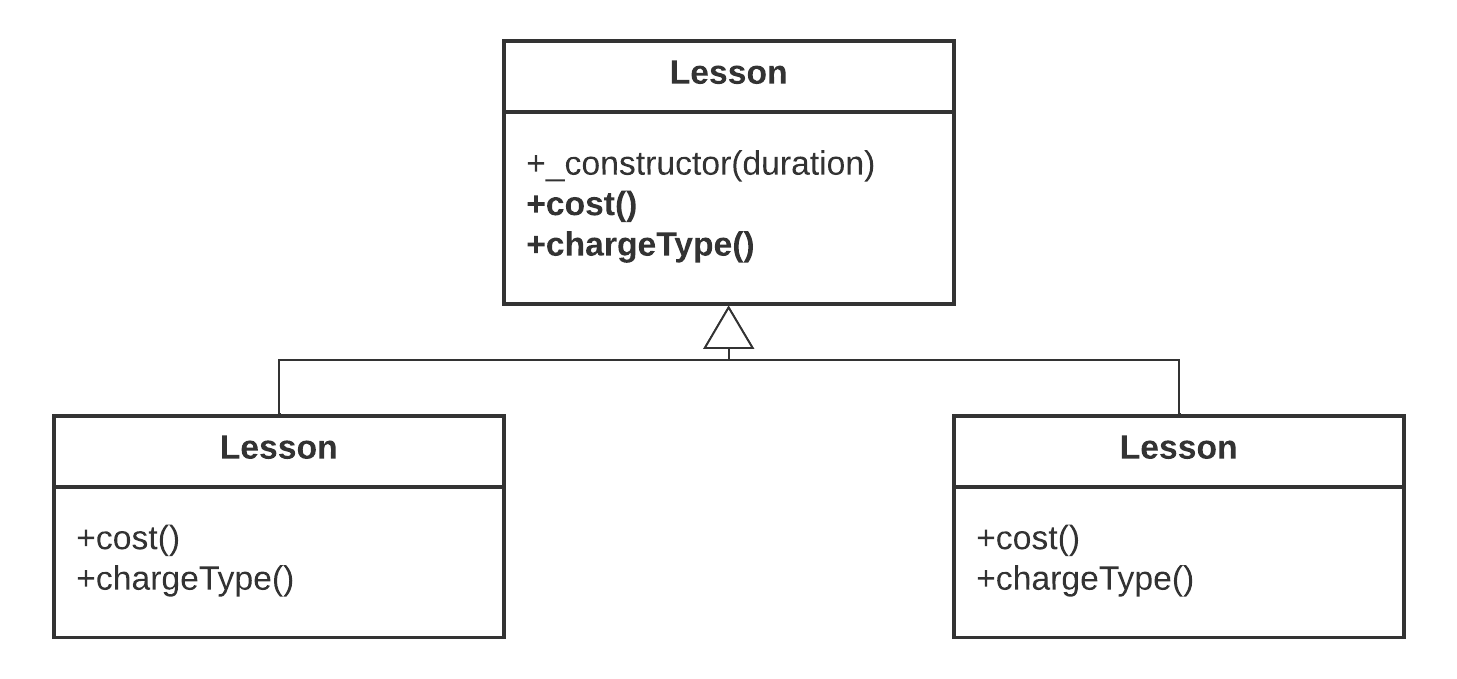
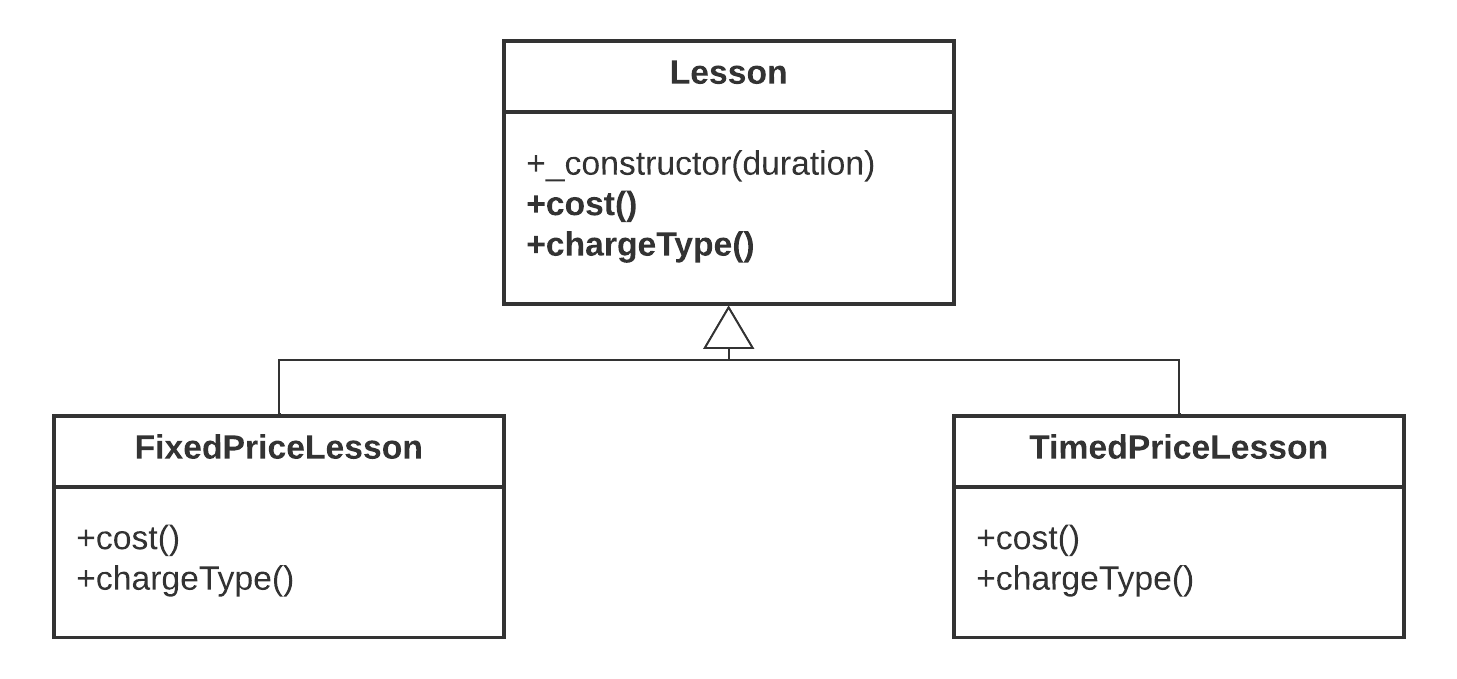
Strategy

Changed region(s): [[0.7104, 0.6186, 0.9266, 0.6804], [0.0927, 0.6186, 0.3089, 0.6804]]

diff --git a/Strategy/Lesson.php b/Strategy/Lesson.php
@@ -1,0 +1,27 @@
+<?php
+
+namespace Strategy;
+
+abstract class Lesson
+{
+    public function __construct(
+        private int $duration,
+        private CostStrategy $costStrategy
+    ) {
+    }
+
+    public function cost(): int
+    {
+        return $this->costStrategy->cost($this);
+    }
+
+    public function chargeType(): string
+    {
+        return $this->costStrategy->chargeType();
+    }
+
+    public function getDuration()
+    {
+        return $this->duration;
+    }
+}

diff --git a/Strategy/TimedCostStrategy.php b/Strategy/TimedCostStrategy.php
@@ -1,0 +1,15 @@
+<?php
+
+namespace Strategy;
+
+class TimedCostStrategy extends CostStrategy
+{
+    public function cost(Lesson $lesson): int
+    {
+        return ($lesson->getDuration() * 5);
+    }
+    public function chargeType(): string
+    {
+        return "Почасовая оплата";
+    }
+}

diff --git a/Strategy/FixedCostStrategy.php b/Strategy/FixedCostStrategy.php
@@ -1,0 +1,15 @@
+<?php
+
+namespace Strategy;
+
+class FixedCostStrategy extends CostStrategy
+{
+    public function cost(Lesson $lesson): int
+    {
+        return 30;
+    }
+    public function chargeType(): string
+    {
+        return "Фиксированная ставка";
+    }
+}

diff --git a/Strategy/CostStrategy.php b/Strategy/CostStrategy.php
@@ -1,0 +1,9 @@
+<?php
+
+namespace Strategy;
+
+abstract class CostStrategy
+{
+    abstract public function cost(Lesson $lesson): int;
+    abstract public function chargeType(): string;
+}

diff --git a/Strategy/Lecture.php b/Strategy/Lecture.php
@@ -1,0 +1,8 @@
+<?php
+
+namespace Strategy;
+
+class Lecture extends Lesson
+{
+    // Реализации, специфичные для класса Lecture... 
+}

diff --git a/Strategy/Seminar.php b/Strategy/Seminar.php
@@ -1,0 +1,8 @@
+<?php
+
+namespace Strategy;
+
+class Seminar extends Lesson
+{
+    // Реализации, специфичные для класса Seminar... 
+}

diff --git a/Strategy/README.md b/Strategy/README.md
@@ -8,6 +8,144 @@
 
 Дочерние классы наследуют методы и свойства родительских классов, при условии, что они относятся к открытым или защищенным элементам. Этим фактом можно воспользоваться для создания дочерних классов, обладающих особыми функциональными возможностями.
 
-Пример наследования, демонстрируемого с помощью диаграммы UML:
+На рис. 1 приведен пример наследования, демонстрируемого с помощью диаграммы UML:
 
 ![Image alt](https://github.com/IlnarAhm/php-design-patterns/raw/main/Strategy/img/UML-1.png)
+
+<figcaption align = "center"><b>Puc. 1.</b> <i>Родительский класс и два дочерних класса</i></figcaption>
+<br/>
+
+Абстрактный класс Lesson на рис. 1 моделирует обучение в коллед- же и определяет абстрактные методы _cost()_ и _chargeType()_ . На диаграмме показаны два реализующих их класса, _FixedPriceLesson_ и _TimedPriceLesson_, которые обеспечивают разные механизмы оплаты занятий.
+
+Но что произойдет, если потребуется внедрить новый ряд специализаций? Допустим, потребуется работать с такими элементами, как лекции и семинары. Они подразумевают разные способы регистрации учащихся и создания рабочих материалов к занятиям, для них нужны отдельные классы. Мне нужно обрабатывать стратегии оплаты и разделять лекции и семинары.
+
+На рис. 2 показано решение задачи “в лоб”.
+
+![Image alt](https://github.com/IlnarAhm/php-design-patterns/raw/main/Strategy/img/UML-2.png)
+
+<figcaption align = "center"><b>Puc. 2.</b> <i>Неудачная структура наследования</i></figcaption>
+<br/>
+
+На рис. 2 приведена явно неудачная иерархия. Такое дерево наследования нельзя в дальнейшем использовать для того, чтобы управлять механизмами оплаты, не дублируя большие блоки функциональных средств. Эти механизмы оплаты повторяются в семействах классов Lecture и Seminar.
+
+### Решение проблемы
+
+Для решения данной задачи можно воспользоваться шаблоном Strategy, который служит для перемещения ряда алгоритмов в отдельный тип данных.
+
+Мы создали еще один абстрактный класс, _CostStrategy_, в котором определены абстрактные методы _cost()_ и _chargeType()_. Методу _cost()_ необходимо передать экземпляр класса _Lesson_, который он будет использовать для расчета стоимости занятия. Мы предоставляем две реализации класса CostStrategy. Объекты типа Lesson оперируют только типом CostStrategy, а не конкретной реализацией, поэтому можно в любое время добавить новые алгоритмы расчета стоимости, создавая подклассы на основе класса CostStrategy. И для этого не придется вносить вообще никаких изменений в классы Lesson.
+
+![Image alt](https://github.com/IlnarAhm/php-design-patterns/raw/main/Strategy/img/UML-3.png)
+
+<figcaption align = "center"><b>Puc. 3.</b> <i>Перемещение алгоритмов в отдельный тип данных</i></figcaption>
+<br/>
+
+Приведем упрощенную версию нового класса Lesson, показанного на рис. 3:
+
+-   [Lesson](https://github.com/IlnarAhm/php-design-patterns/tree/main/Strategy/Lesson.php)
+-   [Lecture](https://github.com/IlnarAhm/php-design-patterns/tree/main/Strategy/Lecture.php)
+-   [Seminar](https://github.com/IlnarAhm/php-design-patterns/tree/main/Strategy/Seminar.php)
+
+```php
+abstract class Lesson
+{
+    public function __construct(
+        private int $duration,
+        private CostStrategy $costStrategy
+    ) {
+    }
+
+    public function cost(): int
+    {
+        return $this->costStrategy->cost($this);
+    }
+
+    public function chargeType(): string
+    {
+        return $this->costStrategy->chargeType();
+    }
+
+    public function getDuration()
+    {
+        return $this->duration;
+    }
+}
+
+class Lecture extends Lesson
+{
+    // Реализации, специфичные для класса Lecture...
+}
+
+class Seminar extends Lesson
+{
+    // Реализации, специфичные для класса Seminar...
+}
+```
+
+Конструктору класса _Lesson_ передается объект типа _CostStrategy_, который он сохраняет в виде свойства. В методе _Lesson::cost()_ просто делается вызов _CostStrategy::cost()_. Аналогично в методе _Lesson::chargeType()_ делается вызов _CostStrategy::chargeType()_. Такой явный вызов метода из другого объекта для выполнения запроса называется делегированием. В рассматриваемом здесь примере объект типа _CostStrategy_ является делегатом класса _Lesson_. А класс _Lesson_ снимает с себя ответственность за расчет стоимости занятия и возлагает эту обязанность на реализацию класса _CostStrategy_. Ниже показано, каким образом осуществляется делегирование:
+
+```php
+public function cost(): int
+{
+    return $this->costStrategy->cost($this);
+}
+```
+
+А вот определение класса _CostStrategy_ вместе с реализующими его дочерними классами:
+
+-   [CostStrategy](https://github.com/IlnarAhm/php-design-patterns/tree/main/Strategy/CostStrategy.php)
+-   [TimedCostStrategy](https://github.com/IlnarAhm/php-design-patterns/tree/main/Strategy/TimedCostStrategy.php)
+-   [FixedCostStrategy](https://github.com/IlnarAhm/php-design-patterns/tree/main/Strategy/FixedCostStrategy.php)
+
+```php
+abstract class CostStrategy
+{
+    abstract public function cost(Lesson $lesson): int;
+    abstract public function chargeType(): string;
+}
+
+class TimedCostStrategy extends CostStrategy
+{
+    public function cost(Lesson $lesson): int
+    {
+        return ($lesson->getDuration() * 5);
+    }
+    public function chargeType(): string
+    {
+        return "Почасовая оплата";
+    }
+}
+
+class FixedCostStrategy extends CostStrategy
+{
+    public function cost(Lesson $lesson): int
+    {
+        return 30;
+    }
+    public function chargeType(): string
+    {
+        return "Фиксированная ставка";
+    }
+}
+```
+
+Теперь во время выполнения программы можно легко изменить способ расчета стоимости занятий, выполняемый любым объектом типа _Lesson_, передав ему другой объект типа _CostStrategy_. Такой подход способствует созданию довольно гибкого кода. Вместо того чтобы статично встраивать функциональность в структуры кода, можно комбинировать объекты и менять их сочетания динамически:
+
+```php
+$lessons[] = new Seminar(4, new TimedCostStrategy());
+$lessons[] = new Lecture(4, new FixedCostStrategy());
+
+foreach ($lessons as $lesson) {
+    print "Оплата за занятие {$lesson->cost()}. "; print " Тип оплаты: {$lesson->chargeType()}\n";
+}
+```
+
+Выполнение данного фрагмента кода приведет к следующему результату:
+
+```zsh
+Оплата за занятие 20. Тип оплаты: Почасовая оплата
+Оплата за занятие 30. Тип оплаты: Фиксированная ставка
+```
+
+Как видим, одно из следствий принятия такой структуры состоит в том, что мы распределили обязанности классов. Объекты типа _CostStrategy_ ответственны только за расчет стоимости занятия, а объекты типа _Lesson_ управляют данными занятия.
+
+Итак, композиция позволяет сделать код намного более гибким, поскольку можно комбинировать объекты и решать задачи динамически намного большим количеством способов, чем при использовании одной лишь иерархии наследования. Но при этом исходный код может стать неудобочитаемым. В результате композиции, как правило, создается больше типов данных с отношениями, которые не настолько предсказуемы, как отношения наследования. Поэтому понять отношения в такой системе немного труднее.
